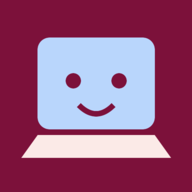
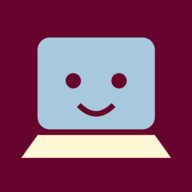
Apply Sejal's beet red, crystal blue and lemon palette

Changed region(s): [[0.1875, 0.1875, 0.8125, 0.6875]]

diff --git a/src/index.css b/src/index.css
@@ -2,7 +2,7 @@
 @tailwind components;
 @tailwind utilities;
 
-:root{--bg:#FBEAE7;--surface:#fffaf7;--text:#481327;--text-muted:#795563;--border:#7c113a26;--accent:#B9D6FC;--accent-fg:#481327;--primary-action:#7C113A;--primary-action-fg:#fffaf7;--radius:22px;--font:'DM Sans',sans-serif;--wine:#7C113A;--terra:#EA6244;font-family:var(--font);color:var(--text);background:var(--bg);font-synthesis:none}*{box-sizing:border-box}html{scroll-behavior:smooth;scroll-padding-top:30px}body{margin:0}button,input,textarea,select{font:inherit}button,a,input,textarea,select{-webkit-tap-highlight-color:transparent}button,a{touch-action:manipulation}button{cursor:pointer}button:disabled{cursor:wait;opacity:.65}a{color:inherit;text-decoration:none}button:focus-visible,a:focus-visible,input:focus-visible,textarea:focus-visible,select:focus-visible,summary:focus-visible{outline:3px solid var(--terra);outline-offset:5px}h1,h2,h3,p{margin:0}h1,h2,h3,.wordmark{font-family:'Fredoka',sans-serif;font-weight:600;letter-spacing:-.035em}h2{font-size:clamp(30px,3.4vw,43px);line-height:1.13;color:var(--wine)}h2 span{font-weight:500}p{line-height:1.6}button{border:0}section{scroll-margin-top:28px}.wrap{max-width:1140px;width:calc(100% - 96px);margin-inline:auto}.site-header{height:106px;display:flex;align-items:center;justify-content:space-between;border-bottom:1px solid var(--border)}.wordmark{font-size:30px;display:flex;align-items:center;letter-spacing:-1.1px;color:var(--wine);font-weight:600}.wordmark-dot{color:var(--terra)}.logo-mark{width:30px;height:30px;background:var(--wine);color:var(--bg);font:700 30px/27px 'Fredoka',sans-serif;border-radius:8px;margin-right:9px;letter-spacing:-6px;padding-left:4px;transform:rotate(-7deg)}.logo-mark span{font-size:25px;color:var(--accent)}nav{display:flex;gap:30px;align-items:center;font-size:13px;font-weight:600}.nav-button{padding:11px 17px;border:1px solid var(--wine);border-radius:99px;background:transparent;color:var(--wine)}.nav-button span{margin-left:10px}.hero{padding-top:54px;display:grid;grid-template-columns:1.15fr 1fr;gap:30px 20px;align-items:center}.eyebrow{text-transform:uppercase;font-size:10px;font-weight:700;letter-spacing:1.7px;color:var(--wine);display:inline-flex;align-items:center;gap:7px}.tiny-dot{width:6px;height:6px;border-radius:50%;background:var(--terra)}h1{font-size:clamp(56px,6.5vw,82px);line-height:.99;color:var(--wine);margin-top:23px;position:relative}.highlight{position:relative}.title-star{font-family:serif;font-size:42px;color:var(--terra);display:inline-block;transform:rotate(12deg);vertical-align:top;margin:10px 0 0 9px}.hero-sub{margin-top:24px;font-size:16px;line-height:1.65}.hero-tags{display:flex;gap:9px;margin-top:22px;font-size:10px;font-weight:600}.hero-tags span{border:1px solid var(--border);border-radius:99px;padding:5px 10px}.hero-tags span:before{content:'✓';margin-right:5px;color:var(--wine)}.hero-art{height:372px;position:relative;display:flex;align-items:center;justify-content:center}.art-circle{width:300px;height:300px;border-radius:50%;background:#f5d6d0;position:absolute;top:36px;left:18%}.laptop{width:100%;max-width:360px;z-index:1;position:relative;overflow:visible}.hero-art>.laptop{transform:rotate(-7deg);margin-top:55px;animation:float 5s ease-in-out infinite}.speech{position:absolute;z-index:2;top:0;left:45px;border:2px solid var(--wine);background:var(--surface);border-radius:19px 19px 0 19px;padding:14px 24px;font-family:'Fredoka',sans-serif;font-size:19px;line-height:1.25;transform:rotate(-7deg);box-shadow:4px 5px 0 #7c113a13}.sticker{position:absolute;right:-4px;bottom:65px;background:var(--terra);color:#401020;z-index:3;transform:rotate(11deg);padding:14px 22px;border:3px solid var(--surface);border-radius:12px;font-family:'Fredoka',sans-serif;font-size:21px;line-height:1.15;box-shadow:2px 3px 0 #7c113a28}.sticker b{font-weight:600}.art-caption{position:absolute;bottom:9px;left:28%;font-size:12px;color:var(--text-muted);transform:rotate(-5deg)}.art-spark{position:absolute;color:var(--wine);font-size:46px;z-index:2}.spark-one{top:35px;right:17px}.spark-two{bottom:77px;left:17px;color:var(--terra);font-size:38px}.scan-card{grid-column:1/-1;margin-top:13px;background:var(--surface);border:1px solid var(--border);border-radius:20px;padding:9px 23px 16px;box-shadow:0 7px 0 #7c113a08;position:relative;z-index:3}.tabs{display:flex;gap:24px;border-bottom:1px solid var(--border);margin-bottom:20px}.tabs button{background:none;padding:14px 0 11px;font-size:13px;font-weight:700;color:var(--text-muted);border-bottom:3px solid transparent}.tabs button[aria-selected=true]{color:var(--wine);border-color:var(--wine)}.tabs>span{margin-left:auto;align-self:center;font-size:11px;color:var(--text-muted)}.repo-form{display:flex;border:1px solid var(--border);border-radius:12px;padding:6px;align-items:center;gap:10px;background:white}.input-icon{font-size:24px;padding-left:12px;color:var(--wine)}.repo-form input{border:0;background:transparent;min-width:0;flex:1;font-size:14px;padding:10px 0;color:var(--wine)}input:focus,textarea:focus{outline:none}.primary{background:var(--wine);color:var(--primary-action-fg);border-radius:10px;padding:14px 22px;font-size:13px;font-weight:600;display:inline-flex;align-items:center;justify-content:center;gap:23px;white-space:nowrap;transition:transform .18s,box-shadow .18s}.primary:hover{transform:translateY(-2px);box-shadow:0 4px 0 #48132722}.primary span{font-size:19px;line-height:1}.samples{display:flex;align-items:center;gap:8px;margin-top:14px;flex-wrap:wrap;font-size:10px}.samples>span{color:var(--text-muted);margin-right:4px}.samples button{background:#f5edea;border:1px solid #7c113a15;color:var(--wine);border-radius:99px;padding:5px 10px;font-size:10px}.samples button:hover{background:var(--accent)}.form-note{font-size:10px;color:var(--text-muted);margin-top:11px}.error{background:#fce1d9;border-left:3px solid var(--terra);padding:10px 12px;color:#6c1821;font-size:13px;margin-top:12px}.package-intro{display:flex;justify-content:space-between;gap:15px;align-items:center;padding-bottom:8px;font-size:14px}.moments-section{margin-top:72px;background:#f5dfdb;padding:48px 0 35px;border-block:1px solid #7c113a0b}.section-heading{display:flex;align-items:flex-end;justify-content:space-between;gap:25px;margin-bottom:26px}.section-heading h2{margin-top:10px}.section-heading>p{font-size:12px;color:var(--text-muted)}.hand-note{font-family:'Fredoka',sans-serif;transform:rotate(-7deg);font-size:15px;color:var(--wine);white-space:nowrap;padding-bottom:6px}.moment-grid{display:grid;grid-template-columns:repeat(4,1fr);gap:14px}.moment-card{text-align:left;padding:16px 20px 21px;border-radius:18px;color:var(--text);border:2px solid transparent;position:relative;transition:transform .2s,border-color .2s}.moment-card:hover{transform:translateY(-5px)}.moment-card.selected{border-color:var(--wine);box-shadow:0 4px 0 #7c113a17}.moment-0{background:var(--accent)}.moment-1{background:#d6def0}.moment-2{background:#f4c9b8}.moment-3{background:#f0ac99}.moment-top{display:flex;justify-content:space-between;align-items:center}.step{font-size:10px;font-weight:700;border:1px solid #7c113a44;border-radius:99px;padding:3px 8px}.moment-arrow{font-size:20px}.laptop-small{width:125px;display:block;margin:6px auto -4px}.moment-card h3{font-size:29px;color:var(--wine)}.moment-card h3 span{color:var(--terra)}.moment-card code{font-size:10px;display:inline-block;border:1px solid #7c113a26;border-radius:5px;padding:3px 6px;margin-top:8px;background:#ffffff33}.moment-card p{font-size:12px;line-height:1.5;margin-top:12px;max-width:180px}.moment-tip{display:flex;gap:12px;align-items:center;min-height:50px;margin-top:13px;font-size:12px}.tip-label{background:var(--wine);color:var(--bg);border-radius:5px;padding:3px 9px;font-weight:600;white-space:nowrap;font-size:10px}.flags-section{padding-block:58px}.flag-grid{display:grid;grid-template-columns:repeat(3,1fr);gap:17px}.flag-card{background:var(--surface);border:1px solid var(--border);padding:22px;border-radius:18px;text-align:left;position:relative;min-height:249px;display:flex;flex-direction:column;transition:transform .2s,background .2s}.flag-card:hover{transform:rotate(-1deg) translateY(-3px)}.flag-card.is-flipped{background:#f7cfbf}.flag-symbol{font:600 20px/1.1 monospace;color:var(--wine);background:#f6ddd5;border-radius:10px;width:43px;height:43px;display:grid;place-items:center;margin-bottom:19px}.flag-number{position:absolute;right:22px;top:25px;font-size:10px;color:var(--text-muted)}.flag-card h3{font-size:22px;color:var(--wine);letter-spacing:-.02em}.flag-card code{font-size:10px;color:var(--wine);margin-top:14px;letter-spacing:-.3px}.flag-card p{font-size:12px;color:var(--text-muted);margin:9px 0 22px;line-height:1.5}.flag-card .flag-detail{color:var(--text);margin-bottom:16px}.flag-action{display:flex;justify-content:space-between;margin-top:auto;font-size:10px;font-weight:700;border-top:1px solid var(--border);padding-top:12px;color:var(--wine)}.flag-action span{font-size:17px;line-height:12px}.package-section{background:var(--accent);padding:49px 0 46px;border-block:1px solid #7c113a14}.package-layout{display:grid;grid-template-columns:.8fr 1.2fr;gap:65px;align-items:start}.package-copy h2{font-size:46px;margin-top:13px}.package-copy>p{font-size:13px;margin-top:17px}.slot-machine{display:flex;gap:6px;margin-top:25px;transform:rotate(-3deg);max-width:285px;border:2px solid var(--wine);border-radius:14px;background:var(--wine);padding:7px;box-shadow:4px 5px 0 #7c113a20}.slot-machine span{display:grid;place-items:center;background:var(--surface);color:var(--wine);border-radius:6px;flex:1;height:55px;font-family:'Fredoka',sans-serif;font-weight:500;font-size:22px;border-block:7px solid #eddad7}.slot-machine.spinning span{animation:slot .4s ease-in-out infinite}.slot-machine.spinning span:nth-child(2){animation-delay:.12s}.slot-machine.spinning span:nth-child(3){animation-delay:.24s}.package-copy .small-print{font-size:10px;color:#5e475c;margin-top:19px}.package-box{background:var(--surface);border-radius:18px;border:1px solid var(--border);padding:23px;box-shadow:0 5px 0 #7c113a0a}.field-heading{display:flex;justify-content:space-between;align-items:center;gap:10px;margin-bottom:14px}.field-heading label{font-size:12px;font-weight:700;color:var(--wine)}select{background:#f6eeea;border:1px solid var(--border);border-radius:6px;color:var(--text);font-size:10px;padding:7px;max-width:52%}textarea{width:100%;resize:vertical;min-height:132px;max-height:350px;border:1px solid var(--border);border-radius:9px;background:#fcf7f3;padding:14px;font:11px/1.8 monospace;color:var(--text)}textarea::placeholder{color:#937883}.package-actions{display:flex;justify-content:space-between;align-items:center;margin-top:11px;gap:10px}.text-button{background:none;color:var(--wine);font-size:10px;font-weight:700;text-align:left}.text-button:hover{text-decoration:underline}.package-actions .primary{padding:11px 20px}.checking{font-size:12px;margin-top:17px;color:var(--wine)}.package-results{margin-top:21px;border-top:1px solid var(--border)}.result-note{font-size:10px;color:var(--text-muted);margin:12px 0}.package-results details{border-top:1px solid var(--border)}.package-results summary{cursor:pointer;padding:13px 0;display:flex;justify-content:space-between;align-items:center;gap:10px}.result-name{font-size:13px;font-weight:700;overflow-wrap:anywhere;min-width:0}.result-name small{font-weight:400;display:block;font-size:9px;color:var(--text-muted)}.stamp{font-size:9px;background:var(--accent);border:1px solid var(--wine);border-radius:5px;padding:4px 7px;color:var(--wine);transform:rotate(-3deg);white-space:nowrap}.stamp-one_typo_from_famous,.stamp-brand_new,.stamp-lookup_failed{background:#ffd8a7}.stamp-does_not_exist{background:#f6b4a2}.result-detail{font-size:11px;padding:4px 0 14px}.result-detail p{margin-top:10px;color:var(--text-muted)}.result-detail a{text-decoration:underline;color:var(--wine)}.terminal-section{padding-block:58px 44px}.replay-source{text-align:right;font-size:10px;max-width:290px}.source-pill{display:inline-block;background:#f5d5ca;color:var(--wine);border-radius:99px;padding:5px 12px;font-size:10px;margin-bottom:10px}.replay-source p{color:var(--text-muted)}.replay-terminal{box-shadow:0 8px 0 #7c113a10;border-radius:18px!important}.replay-terminal button{font-family:var(--font)}.repo-dependencies{margin-top:17px;font-size:12px}.swap-section{background:var(--surface);border:1px solid var(--border);border-radius:20px;padding:27px 32px;display:flex;align-items:center;gap:25px;margin-bottom:47px}.swap-icon{width:66px;height:66px;border-radius:50%;background:var(--accent);color:var(--wine);font-size:36px;display:grid;place-items:center;flex-shrink:0;transform:rotate(-15deg)}.swap-copy{flex:1}.swap-copy .eyebrow{font-size:8px;letter-spacing:1.3px}.swap-copy h2{font-size:30px;margin:5px 0 9px}.swap-copy>p{font-size:12px;color:var(--text-muted)}.swap-copy .small-print{font-size:10px;margin-top:10px;max-width:480px}.swap-copy .small-print a{text-decoration:underline}.swap-tag{padding:8px 13px;font-size:10px;border:1px dashed var(--wine);border-radius:7px;color:var(--wine);transform:rotate(5deg);white-space:nowrap}footer{display:flex;align-items:center;justify-content:space-between;padding:25px 0 85px;border-top:1px solid var(--border);gap:20px;font-size:10px;color:var(--text-muted)}footer .footer-brand{font-size:23px}footer>a:last-child{text-decoration:underline}.bottom-banner{position:fixed;bottom:0;inset-inline:0;z-index:10;display:flex;align-items:center;justify-content:center;gap:5px;background:var(--wine);color:var(--bg);padding:11px 20px;font-size:10px;font-weight:600;box-shadow:0 -3px 18px #7c113a13}.bottom-banner>span:first-child{color:var(--accent);font-size:18px;line-height:15px;margin-right:5px}.bottom-banner>span:last-child{font-weight:400;opacity:.85}@keyframes float{0%,100%{transform:rotate(-7deg) translateY(0)}50%{transform:rotate(-5deg) translateY(-8px)}}@keyframes slot{50%{transform:translateY(-4px);filter:blur(2px)}}
+:root{--bg:#FFF8D5;--surface:#fffaf7;--text:#441910;--text-muted:#795563;--border:#68002c26;--accent:#A6C9DD;--accent-fg:#441910;--primary-action:#68002C;--primary-action-fg:#fffaf7;--radius:22px;--font:'DM Sans',sans-serif;--wine:#68002C;--terra:#E098AC;font-family:var(--font);color:var(--text);background:var(--bg);font-synthesis:none}*{box-sizing:border-box}html{scroll-behavior:smooth;scroll-padding-top:30px}body{margin:0}button,input,textarea,select{font:inherit}button,a,input,textarea,select{-webkit-tap-highlight-color:transparent}button,a{touch-action:manipulation}button{cursor:pointer}button:disabled{cursor:wait;opacity:.65}a{color:inherit;text-decoration:none}button:focus-visible,a:focus-visible,input:focus-visible,textarea:focus-visible,select:focus-visible,summary:focus-visible{outline:3px solid var(--terra);outline-offset:5px}h1,h2,h3,p{margin:0}h1,h2,h3,.wordmark{font-family:'Fredoka',sans-serif;font-weight:600;letter-spacing:-.035em}h2{font-size:clamp(30px,3.4vw,43px);line-height:1.13;color:var(--wine)}h2 span{font-weight:500}p{line-height:1.6}button{border:0}section{scroll-margin-top:28px}.wrap{max-width:1140px;width:calc(100% - 96px);margin-inline:auto}.site-header{height:106px;display:flex;align-items:center;justify-content:space-between;border-bottom:1px solid var(--border)}.wordmark{font-size:30px;display:flex;align-items:center;letter-spacing:-1.1px;color:var(--wine);font-weight:600}.wordmark-dot{color:var(--terra)}.logo-mark{width:30px;height:30px;background:var(--wine);color:var(--bg);font:700 30px/27px 'Fredoka',sans-serif;border-radius:8px;margin-right:9px;letter-spacing:-6px;padding-left:4px;transform:rotate(-7deg)}.logo-mark span{font-size:25px;color:var(--accent)}nav{display:flex;gap:30px;align-items:center;font-size:13px;font-weight:600}.nav-button{padding:11px 17px;border:1px solid var(--wine);border-radius:99px;background:transparent;color:var(--wine)}.nav-button span{margin-left:10px}.hero{padding-top:54px;display:grid;grid-template-columns:1.15fr 1fr;gap:30px 20px;align-items:center}.eyebrow{text-transform:uppercase;font-size:10px;font-weight:700;letter-spacing:1.7px;color:var(--wine);display:inline-flex;align-items:center;gap:7px}.tiny-dot{width:6px;height:6px;border-radius:50%;background:var(--terra)}h1{font-size:clamp(56px,6.5vw,82px);line-height:.99;color:var(--wine);margin-top:23px;position:relative}.highlight{position:relative}.title-star{font-family:serif;font-size:42px;color:var(--terra);display:inline-block;transform:rotate(12deg);vertical-align:top;margin:10px 0 0 9px}.hero-sub{margin-top:24px;font-size:16px;line-height:1.65}.hero-tags{display:flex;gap:9px;margin-top:22px;font-size:10px;font-weight:600}.hero-tags span{border:1px solid var(--border);border-radius:99px;padding:5px 10px}.hero-tags span:before{content:'✓';margin-right:5px;color:var(--wine)}.hero-art{height:372px;position:relative;display:flex;align-items:center;justify-content:center}.art-circle{width:300px;height:300px;border-radius:50%;background:#f5d6d0;position:absolute;top:36px;left:18%}.laptop{width:100%;max-width:360px;z-index:1;position:relative;overflow:visible}.hero-art>.laptop{transform:rotate(-7deg);margin-top:55px;animation:float 5s ease-in-out infinite}.speech{position:absolute;z-index:2;top:0;left:45px;border:2px solid var(--wine);background:var(--surface);border-radius:19px 19px 0 19px;padding:14px 24px;font-family:'Fredoka',sans-serif;font-size:19px;line-height:1.25;transform:rotate(-7deg);box-shadow:4px 5px 0 #68002c13}.sticker{position:absolute;right:-4px;bottom:65px;background:var(--terra);color:#401020;z-index:3;transform:rotate(11deg);padding:14px 22px;border:3px solid var(--surface);border-radius:12px;font-family:'Fredoka',sans-serif;font-size:21px;line-height:1.15;box-shadow:2px 3px 0 #68002c28}.sticker b{font-weight:600}.art-caption{position:absolute;bottom:9px;left:28%;font-size:12px;color:var(--text-muted);transform:rotate(-5deg)}.art-spark{position:absolute;color:var(--wine);font-size:46px;z-index:2}.spark-one{top:35px;right:17px}.spark-two{bottom:77px;left:17px;color:var(--terra);font-size:38px}.scan-card{grid-column:1/-1;margin-top:13px;background:var(--surface);border:1px solid var(--border);border-radius:20px;padding:9px 23px 16px;box-shadow:0 7px 0 #68002c08;position:relative;z-index:3}.tabs{display:flex;gap:24px;border-bottom:1px solid var(--border);margin-bottom:20px}.tabs button{background:none;padding:14px 0 11px;font-size:13px;font-weight:700;color:var(--text-muted);border-bottom:3px solid transparent}.tabs button[aria-selected=true]{color:var(--wine);border-color:var(--wine)}.tabs>span{margin-left:auto;align-self:center;font-size:11px;color:var(--text-muted)}.repo-form{display:flex;border:1px solid var(--border);border-radius:12px;padding:6px;align-items:center;gap:10px;background:white}.input-icon{font-size:24px;padding-left:12px;color:var(--wine)}.repo-form input{border:0;background:transparent;min-width:0;flex:1;font-size:14px;padding:10px 0;color:var(--wine)}input:focus,textarea:focus{outline:none}.primary{background:var(--wine);color:var(--primary-action-fg);border-radius:10px;padding:14px 22px;font-size:13px;font-weight:600;display:inline-flex;align-items:center;justify-content:center;gap:23px;white-space:nowrap;transition:transform .18s,box-shadow .18s}.primary:hover{transform:translateY(-2px);box-shadow:0 4px 0 #44191022}.primary span{font-size:19px;line-height:1}.samples{display:flex;align-items:center;gap:8px;margin-top:14px;flex-wrap:wrap;font-size:10px}.samples>span{color:var(--text-muted);margin-right:4px}.samples button{background:#f5edea;border:1px solid #68002c15;color:var(--wine);border-radius:99px;padding:5px 10px;font-size:10px}.samples button:hover{background:var(--accent)}.form-note{font-size:10px;color:var(--text-muted);margin-top:11px}.error{background:#fce1d9;border-left:3px solid var(--terra);padding:10px 12px;color:#6c1821;font-size:13px;margin-top:12px}.package-intro{display:flex;justify-content:space-between;gap:15px;align-items:center;padding-bottom:8px;font-size:14px}.moments-section{margin-top:72px;background:#f5dfdb;padding:48px 0 35px;border-block:1px solid #68002c0b}.section-heading{display:flex;align-items:flex-end;justify-content:space-between;gap:25px;margin-bottom:26px}.section-heading h2{margin-top:10px}.section-heading>p{font-size:12px;color:var(--text-muted)}.hand-note{font-family:'Fredoka',sans-serif;transform:rotate(-7deg);font-size:15px;color:var(--wine);white-space:nowrap;padding-bottom:6px}.moment-grid{display:grid;grid-template-columns:repeat(4,1fr);gap:14px}.moment-card{text-align:left;padding:16px 20px 21px;border-radius:18px;color:var(--text);border:2px solid transparent;position:relative;transition:transform .2s,border-color .2s}.moment-card:hover{transform:translateY(-5px)}.moment-card.selected{border-color:var(--wine);box-shadow:0 4px 0 #68002c17}.moment-0{background:var(--accent)}.moment-1{background:#d6def0}.moment-2{background:#f4c9b8}.moment-3{background:#f0ac99}.moment-top{display:flex;justify-content:space-between;align-items:center}.step{font-size:10px;font-weight:700;border:1px solid #68002c44;border-radius:99px;padding:3px 8px}.moment-arrow{font-size:20px}.laptop-small{width:125px;display:block;margin:6px auto -4px}.moment-card h3{font-size:29px;color:var(--wine)}.moment-card h3 span{color:var(--terra)}.moment-card code{font-size:10px;display:inline-block;border:1px solid #68002c26;border-radius:5px;padding:3px 6px;margin-top:8px;background:#ffffff33}.moment-card p{font-size:12px;line-height:1.5;margin-top:12px;max-width:180px}.moment-tip{display:flex;gap:12px;align-items:center;min-height:50px;margin-top:13px;font-size:12px}.tip-label{background:var(--wine);color:var(--bg);border-radius:5px;padding:3px 9px;font-weight:600;white-space:nowrap;font-size:10px}.flags-section{padding-block:58px}.flag-grid{display:grid;grid-template-columns:repeat(3,1fr);gap:17px}.flag-card{background:var(--surface);border:1px solid var(--border);padding:22px;border-radius:18px;text-align:left;position:relative;min-height:249px;display:flex;flex-direction:column;transition:transform .2s,background .2s}.flag-card:hover{transform:rotate(-1deg) translateY(-3px)}.flag-card.is-flipped{background:#f7cfbf}.flag-symbol{font:600 20px/1.1 monospace;color:var(--wine);background:#f6ddd5;border-radius:10px;width:43px;height:43px;display:grid;place-items:center;margin-bottom:19px}.flag-number{position:absolute;right:22px;top:25px;font-size:10px;color:var(--text-muted)}.flag-card h3{font-size:22px;color:var(--wine);letter-spacing:-.02em}.flag-card code{font-size:10px;color:var(--wine);margin-top:14px;letter-spacing:-.3px}.flag-card p{font-size:12px;color:var(--text-muted);margin:9px 0 22px;line-height:1.5}.flag-card .flag-detail{color:var(--text);margin-bottom:16px}.flag-action{display:flex;justify-content:space-between;margin-top:auto;font-size:10px;font-weight:700;border-top:1px solid var(--border);padding-top:12px;color:var(--wine)}.flag-action span{font-size:17px;line-height:12px}.package-section{background:var(--accent);padding:49px 0 46px;border-block:1px solid #68002c14}.package-layout{display:grid;grid-template-columns:.8fr 1.2fr;gap:65px;align-items:start}.package-copy h2{font-size:46px;margin-top:13px}.package-copy>p{font-size:13px;margin-top:17px}.slot-machine{display:flex;gap:6px;margin-top:25px;transform:rotate(-3deg);max-width:285px;border:2px solid var(--wine);border-radius:14px;background:var(--wine);padding:7px;box-shadow:4px 5px 0 #68002c20}.slot-machine span{display:grid;place-items:center;background:var(--surface);color:var(--wine);border-radius:6px;flex:1;height:55px;font-family:'Fredoka',sans-serif;font-weight:500;font-size:22px;border-block:7px solid #eddad7}.slot-machine.spinning span{animation:slot .4s ease-in-out infinite}.slot-machine.spinning span:nth-child(2){animation-delay:.12s}.slot-machine.spinning span:nth-child(3){animation-delay:.24s}.package-copy .small-print{font-size:10px;color:#5e475c;margin-top:19px}.package-box{background:var(--surface);border-radius:18px;border:1px solid var(--border);padding:23px;box-shadow:0 5px 0 #68002c0a}.field-heading{display:flex;justify-content:space-between;align-items:center;gap:10px;margin-bottom:14px}.field-heading label{font-size:12px;font-weight:700;color:var(--wine)}select{background:#f6eeea;border:1px solid var(--border);border-radius:6px;color:var(--text);font-size:10px;padding:7px;max-width:52%}textarea{width:100%;resize:vertical;min-height:132px;max-height:350px;border:1px solid var(--border);border-radius:9px;background:#fcf7f3;padding:14px;font:11px/1.8 monospace;color:var(--text)}textarea::placeholder{color:#937883}.package-actions{display:flex;justify-content:space-between;align-items:center;margin-top:11px;gap:10px}.text-button{background:none;color:var(--wine);font-size:10px;font-weight:700;text-align:left}.text-button:hover{text-decoration:underline}.package-actions .primary{padding:11px 20px}.checking{font-size:12px;margin-top:17px;color:var(--wine)}.package-results{margin-top:21px;border-top:1px solid var(--border)}.result-note{font-size:10px;color:var(--text-muted);margin:12px 0}.package-results details{border-top:1px solid var(--border)}.package-results summary{cursor:pointer;padding:13px 0;display:flex;justify-content:space-between;align-items:center;gap:10px}.result-name{font-size:13px;font-weight:700;overflow-wrap:anywhere;min-width:0}.result-name small{font-weight:400;display:block;font-size:9px;color:var(--text-muted)}.stamp{font-size:9px;background:var(--accent);border:1px solid var(--wine);border-radius:5px;padding:4px 7px;color:var(--wine);transform:rotate(-3deg);white-space:nowrap}.stamp-one_typo_from_famous,.stamp-brand_new,.stamp-lookup_failed{background:#ffd8a7}.stamp-does_not_exist{background:#f6b4a2}.result-detail{font-size:11px;padding:4px 0 14px}.result-detail p{margin-top:10px;color:var(--text-muted)}.result-detail a{text-decoration:underline;color:var(--wine)}.terminal-section{padding-block:58px 44px}.replay-source{text-align:right;font-size:10px;max-width:290px}.source-pill{display:inline-block;background:#f5d5ca;color:var(--wine);border-radius:99px;padding:5px 12px;font-size:10px;margin-bottom:10px}.replay-source p{color:var(--text-muted)}.replay-terminal{box-shadow:0 8px 0 #68002c10;border-radius:18px!important}.replay-terminal button{font-family:var(--font)}.repo-dependencies{margin-top:17px;font-size:12px}.swap-section{background:var(--surface);border:1px solid var(--border);border-radius:20px;padding:27px 32px;display:flex;align-items:center;gap:25px;margin-bottom:47px}.swap-icon{width:66px;height:66px;border-radius:50%;background:var(--accent);color:var(--wine);font-size:36px;display:grid;place-items:center;flex-shrink:0;transform:rotate(-15deg)}.swap-copy{flex:1}.swap-copy .eyebrow{font-size:8px;letter-spacing:1.3px}.swap-copy h2{font-size:30px;margin:5px 0 9px}.swap-copy>p{font-size:12px;color:var(--text-muted)}.swap-copy .small-print{font-size:10px;margin-top:10px;max-width:480px}.swap-copy .small-print a{text-decoration:underline}.swap-tag{padding:8px 13px;font-size:10px;border:1px dashed var(--wine);border-radius:7px;color:var(--wine);transform:rotate(5deg);white-space:nowrap}footer{display:flex;align-items:center;justify-content:space-between;padding:25px 0 85px;border-top:1px solid var(--border);gap:20px;font-size:10px;color:var(--text-muted)}footer .footer-brand{font-size:23px}footer>a:last-child{text-decoration:underline}.bottom-banner{position:fixed;bottom:0;inset-inline:0;z-index:10;display:flex;align-items:center;justify-content:center;gap:5px;background:var(--wine);color:var(--bg);padding:11px 20px;font-size:10px;font-weight:600;box-shadow:0 -3px 18px #68002c13}.bottom-banner>span:first-child{color:var(--accent);font-size:18px;line-height:15px;margin-right:5px}.bottom-banner>span:last-child{font-weight:400;opacity:.85}@keyframes float{0%,100%{transform:rotate(-7deg) translateY(0)}50%{transform:rotate(-5deg) translateY(-8px)}}@keyframes slot{50%{transform:translateY(-4px);filter:blur(2px)}}
 @media(min-width:1300px){.hero{padding-top:65px;gap:34px 30px}.hero-art{height:390px}.scan-card{margin-top:23px}.moments-section{margin-top:80px}}
 @media(max-width:900px){.wrap{width:calc(100% - 48px)}h1{font-size:61px}.hero-art{height:330px}.speech{left:10px;font-size:16px;top:5px}.art-circle{width:240px;height:240px;left:10%;top:55px}.hero-art>.laptop{width:300px}.sticker{font-size:17px;right:-3px;bottom:40px}.art-caption{bottom:0}.spark-one{right:0;font-size:30px}.spark-two{left:0;bottom:50px}.moment-card{padding:12px}.moment-card p{font-size:11px}.package-layout{gap:30px;grid-template-columns:.85fr 1.15fr}.package-copy h2{font-size:39px}.field-heading{flex-wrap:wrap}.field-heading select{max-width:100%}.flag-card{padding:19px}.flag-card h3{font-size:20px}.swap-section{padding:24px;gap:18px}.swap-tag{font-size:8px}}
 @media(max-width:640px){.wrap{width:calc(100% - 36px)}.site-header{height:78px}.wordmark{font-size:26px}nav{gap:0}nav>a{display:none}.nav-button{padding:9px 12px;font-size:10px}.nav-button span{margin-left:4px}.hero{padding-top:30px;grid-template-columns:1fr;gap:12px}.hero-copy{z-index:2}.eyebrow{font-size:8px;letter-spacing:1.3px}h1{font-size:clamp(48px,11.8vw,70px);line-height:1.02;margin-top:17px}.desktop-break{display:none}.title-star{font-size:28px;margin:6px 0 0 3px}.hero-sub{font-size:14px;margin-top:17px}.hero-tags{font-size:9px;gap:7px;margin-top:15px}.hero-art{height:249px;max-width:340px;width:100%;margin:0 auto 7px}.art-circle{height:210px;width:210px;top:20px;left:21%}.hero-art>.laptop{width:268px;margin-top:26px}.speech{left:8px;top:0;font-size:14px;padding:10px 15px}.sticker{font-size:16px;padding:10px 15px;bottom:36px;right:0}.spark-one{top:10px;right:15px}.spark-two{left:10px;bottom:42px;font-size:27px}.art-caption{font-size:10px;bottom:0;left:28%}.scan-card{margin-top:0;padding:5px 14px 14px;border-radius:15px}.tabs{gap:22px;margin-bottom:14px}.tabs>span{display:none}.tabs button{font-size:11px;padding:13px 0 10px}.repo-form{flex-wrap:wrap;border:0;padding:0;gap:0;background:none}.input-icon{display:none}.repo-form input{border:1px solid var(--border);border-radius:8px;width:100%;flex:auto;background:white;padding:13px;font-size:12px}.repo-form .primary{width:100%;margin-top:8px;padding:12px 17px;justify-content:space-between}.samples{gap:6px;margin-top:12px}.samples>span{width:100%;font-size:9px}.samples button{font-size:9px;padding:5px 8px}.form-note{font-size:8px}.package-intro{flex-direction:column;font-size:12px;align-items:stretch}.moments-section{margin-top:36px;padding:32px 0 24px}.section-heading{gap:10px;margin-bottom:20px;align-items:start}.section-heading h2{margin-top:8px;font-size:30px}.hand-note{font-size:11px;align-self:flex-end;max-width:65px;white-space:normal}.moment-grid{grid-template-columns:1fr;gap:9px}.moment-card{display:grid;grid-template-columns:36px 1fr 90px;gap:0 10px;padding:13px 14px;min-height:118px}.moment-top{grid-column:1;grid-row:1/4;align-self:start}.moment-arrow{display:none}.step{padding:3px 7px;font-size:9px}.moment-card .laptop-small{grid-column:3;grid-row:1/4;width:96px;margin:auto}.moment-card h3{font-size:27px;grid-column:2}.moment-card code{grid-column:2;justify-self:start;margin-top:4px;font-size:9px;padding:1px 5px}.moment-card p{grid-column:2;font-size:11px;margin-top:7px;max-width:none;line-height:1.4}.moment-tip{font-size:10px;align-items:flex-start;margin-top:17px}.tip-label{font-size:9px;margin-top:1px}.flags-section{padding-block:35px}.flags-section .section-heading>p{display:none}.flag-grid{grid-template-columns:1fr;gap:10px}.flag-card{padding:17px 18px;min-height:177px;display:grid;grid-template-columns:45px 1fr;gap:0 14px}.flag-symbol{grid-row:1/4;grid-column:1;width:38px;height:38px;font-size:18px;margin:0}.flag-number{top:18px;right:17px;font-size:8px}.flag-card h3{font-size:22px;grid-column:2;padding-right:15px}.flag-card code{grid-column:2;margin-top:9px;font-size:9px}.flag-card p{grid-column:2;font-size:11px;margin:7px 0 16px}.flag-action{grid-column:1/3;font-size:10px;padding-top:10px}.package-section{padding:32px 0}.package-layout{grid-template-columns:1fr;gap:25px}.package-copy{position:relative}.package-copy h2{font-size:39px;max-width:220px}.package-copy>p{font-size:12px;margin-top:13px}.slot-machine{position:absolute;right:-5px;top:20px;width:113px;gap:3px;padding:4px;border-radius:10px}.slot-machine span{font-size:12px;height:37px;border-block-width:4px}.package-copy .small-print{font-size:9px;margin-top:15px}.package-box{padding:17px;border-radius:14px}.field-heading{flex-wrap:nowrap;margin-bottom:12px}.field-heading label{font-size:10px}.field-heading select{max-width:55%;font-size:9px;padding:5px}textarea{font-size:10px;min-height:136px}.package-actions .text-button{font-size:9px}.package-actions .primary{font-size:12px;padding:10px 17px;gap:15px}.terminal-section{padding-block:35px 27px}.terminal-section .section-heading{display:block}.terminal-section h2{font-size:31px}.replay-source{text-align:left;margin-top:16px;max-width:none}.source-pill{font-size:9px;margin-bottom:6px}.replay-source p{font-size:9px}.replay-terminal>div:first-child{padding:9px 10px}.replay-terminal>div:first-child>span:nth-child(4){font-size:9px}.replay-terminal>div:first-child>span:last-child{font-size:7px;padding:3px 5px}.replay-terminal>div:nth-child(2){padding:9px 6px;gap:3px}.replay-terminal>div:nth-child(2)>div{font-size:9px;padding:4px 6px;gap:2px}.replay-terminal>div:last-child>span{width:100%;margin:4px 0 0;font-size:9px}.replay-terminal .font-mono{font-size:11px}.repo-dependencies{font-size:10px;line-height:1.6}.swap-section{margin-bottom:28px;padding:21px 18px;display:grid;grid-template-columns:42px 1fr;gap:12px;border-radius:15px}.swap-icon{height:42px;width:42px;font-size:26px;align-self:start;margin-top:7px}.swap-copy .eyebrow{font-size:7px;letter-spacing:.8px}.swap-copy h2{font-size:27px}.swap-copy>p{font-size:11px}.swap-section>.primary,.swap-tag{grid-column:2;justify-self:start}.swap-tag{font-size:8px;margin-top:5px;transform:rotate(2deg)}footer{padding:20px 0 92px;gap:12px;flex-wrap:wrap;font-size:9px}footer .footer-brand{font-size:22px}footer>span{order:3;width:100%}.bottom-banner{font-size:9px;padding:11px 12px;gap:4px;flex-wrap:wrap;line-height:1.5}.bottom-banner>span:last-child{font-size:8px}.bottom-banner>span:first-child{font-size:15px;margin-right:3px}}

diff --git a/src/App.tsx b/src/App.tsx
@@ -21,17 +21,17 @@ const flags = [
 function Arrow({ diagonal = false }: { diagonal?: boolean }) { return <span aria-hidden="true">{diagonal ? '↗' : '→'}</span> }
 function Laptop({ mood = 0, small = false }: { mood?: number; small?: boolean }) {
   return <svg className={small ? 'laptop laptop-small' : 'laptop'} viewBox="0 0 360 260" role="img" aria-label={`Laptop feeling ${moments[mood].face}`}>
-    <ellipse cx="184" cy="238" rx="140" ry="13" fill="#7C113A" opacity=".1" />
-    <path d="M70 48 Q70 30 88 30 H279 Q296 30 296 48 V198 H70Z" fill="#B9D6FC" stroke="#7C113A" strokeWidth="5"/>
-    <rect x="83" y="43" width="199" height="141" rx="9" fill="#FDF6F2" stroke="#7C113A" strokeWidth="3"/>
-    <path d="M69 198 36 220 Q31 229 45 230 H320 Q334 229 328 220 L296 198Z" fill="#B9D6FC" stroke="#7C113A" strokeWidth="5"/>
-    <path d="M149 202H215L224 217H140Z" fill="#FBEAE7" stroke="#7C113A" strokeWidth="2"/>
-    <path d="M107 67h35m-35 9h19" stroke="#7C113A" strokeWidth="4" strokeLinecap="round" opacity=".25"/>
-    <ellipse cx="147" cy="112" rx="7" ry={mood > 1 ? 12 : 9} fill="#7C113A"/><ellipse cx="219" cy="112" rx="7" ry={mood > 1 ? 12 : 9} fill="#7C113A"/>
-    <ellipse cx="127" cy="133" rx="13" ry="6" fill="#EA6244" opacity=".35"/><ellipse cx="239" cy="133" rx="13" ry="6" fill="#EA6244" opacity=".35"/>
-    {mood === 0 ? <path d="M169 137q14 17 28 0" fill="none" stroke="#7C113A" strokeWidth="4" strokeLinecap="round"/> : mood === 1 ? <path d="m172 143 22-5" stroke="#7C113A" strokeWidth="4" strokeLinecap="round"/> : <ellipse cx="183" cy="145" rx={mood === 3 ? 12 : 7} ry={mood === 3 ? 15 : 9} fill="#7C113A"/>}
-    {mood > 1 && <path d="M259 70q-15 19 0 22 15-3 0-22" fill="#B9D6FC" stroke="#7C113A" strokeWidth="2"/>}
-    <path d="M63 113q-25-4-32 12m268-11q27-7 35 6" stroke="#7C113A" strokeWidth="4" fill="none" strokeLinecap="round"/>
+    <ellipse cx="184" cy="238" rx="140" ry="13" fill="#68002C" opacity=".1" />
+    <path d="M70 48 Q70 30 88 30 H279 Q296 30 296 48 V198 H70Z" fill="#A6C9DD" stroke="#68002C" strokeWidth="5"/>
+    <rect x="83" y="43" width="199" height="141" rx="9" fill="#FDF6F2" stroke="#68002C" strokeWidth="3"/>
+    <path d="M69 198 36 220 Q31 229 45 230 H320 Q334 229 328 220 L296 198Z" fill="#A6C9DD" stroke="#68002C" strokeWidth="5"/>
+    <path d="M149 202H215L224 217H140Z" fill="#FFF8D5" stroke="#68002C" strokeWidth="2"/>
+    <path d="M107 67h35m-35 9h19" stroke="#68002C" strokeWidth="4" strokeLinecap="round" opacity=".25"/>
+    <ellipse cx="147" cy="112" rx="7" ry={mood > 1 ? 12 : 9} fill="#68002C"/><ellipse cx="219" cy="112" rx="7" ry={mood > 1 ? 12 : 9} fill="#68002C"/>
+    <ellipse cx="127" cy="133" rx="13" ry="6" fill="#E098AC" opacity=".35"/><ellipse cx="239" cy="133" rx="13" ry="6" fill="#E098AC" opacity=".35"/>
+    {mood === 0 ? <path d="M169 137q14 17 28 0" fill="none" stroke="#68002C" strokeWidth="4" strokeLinecap="round"/> : mood === 1 ? <path d="m172 143 22-5" stroke="#68002C" strokeWidth="4" strokeLinecap="round"/> : <ellipse cx="183" cy="145" rx={mood === 3 ? 12 : 7} ry={mood === 3 ? 15 : 9} fill="#68002C"/>}
+    {mood > 1 && <path d="M259 70q-15 19 0 22 15-3 0-22" fill="#A6C9DD" stroke="#68002C" strokeWidth="2"/>}
+    <path d="M63 113q-25-4-32 12m268-11q27-7 35 6" stroke="#68002C" strokeWidth="4" fill="none" strokeLinecap="round"/>
   </svg>
 }
 

diff --git a/index.html b/index.html
@@ -1,2 +1,2 @@
 <!doctype html>
-<html lang="en"><head><meta charset="UTF-8"/><meta name="viewport" content="width=device-width, initial-scale=1.0"/><meta name="theme-color" content="#7C113A"/><meta name="description" content="Before you run that repo, check the vibes. A visual guide to clone, open, install and run risks. Nothing from your repo is executed."/><link rel="icon" href="/favicon.svg"/><link rel="manifest" href="/manifest.webmanifest" crossorigin="use-credentials"/><title>CloneBrief — check the vibes</title><link rel="preconnect" href="https://fonts.googleapis.com"/><link rel="preconnect" href="https://fonts.gstatic.com" crossorigin/><link href="https://fonts.googleapis.com/css2?family=DM+Sans:wght@400;500;600;700&family=Fredoka:wght@500;600;700&display=swap" rel="stylesheet"/></head><body><div id="root"></div><script type="module" src="/src/main.tsx"></script></body></html>
+<html lang="en"><head><meta charset="UTF-8"/><meta name="viewport" content="width=device-width, initial-scale=1.0"/><meta name="theme-color" content="#68002C"/><meta name="description" content="Before you run that repo, check the vibes. A visual guide to clone, open, install and run risks. Nothing from your repo is executed."/><link rel="icon" href="/favicon.svg"/><link rel="manifest" href="/manifest.webmanifest" crossorigin="use-credentials"/><title>CloneBrief — check the vibes</title><link rel="preconnect" href="https://fonts.googleapis.com"/><link rel="preconnect" href="https://fonts.gstatic.com" crossorigin/><link href="https://fonts.googleapis.com/css2?family=DM+Sans:wght@400;500;600;700&family=Fredoka:wght@500;600;700&display=swap" rel="stylesheet"/></head><body><div id="root"></div><script type="module" src="/src/main.tsx"></script></body></html>

diff --git a/fake-detonation/src/fakeDetonation/FakeDetonation.tsx b/fake-detonation/src/fakeDetonation/FakeDetonation.tsx
@@ -3,7 +3,7 @@ import { buildReplay } from './analyze'
 import type { Phase, Replay, ReplayLine, RepoSnapshot, Severity } from './types'
 
 // Sejal palette
-const C = { wine: '#7C113A', powder: '#B9D6FC', terra: '#EA6244', blush: '#FBEAE7' }
+const C = { wine: '#68002C', powder: '#A6C9DD', terra: '#E098AC', blush: '#FFF8D5' }
 
 const PHASE_LABEL: Record<Phase, string> = { clone: 'Clone', open: 'Open', agent: 'Agent', install: 'Install', run: 'Run' }
 const PHASES: Phase[] = ['clone', 'open', 'agent', 'install', 'run']
